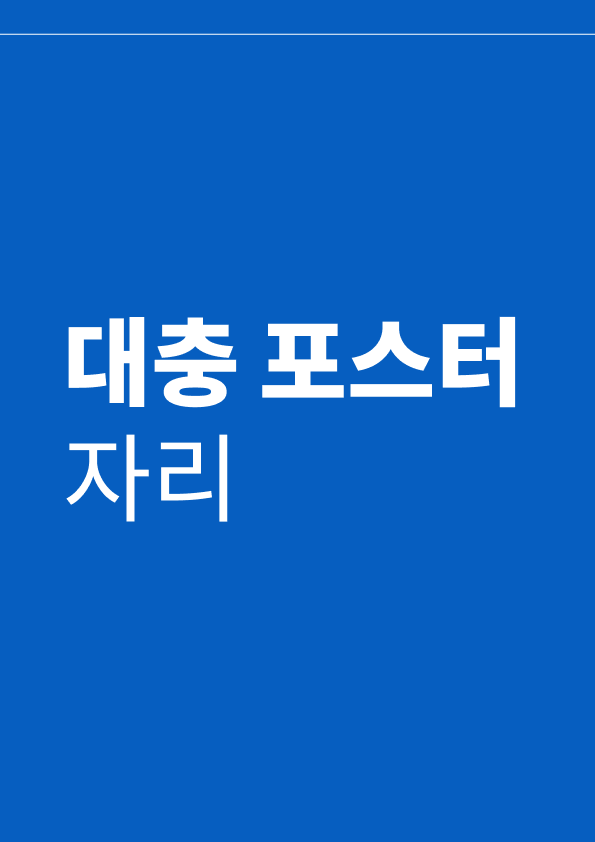
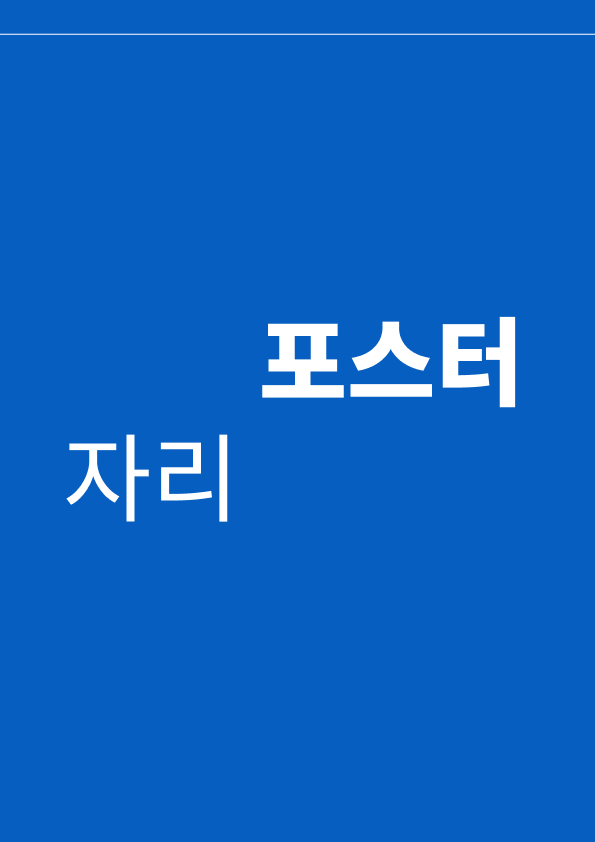
Refine home sections and schedule layout

Changed region(s): [[0.0908, 0.3705, 0.3933, 0.4941]]

diff --git a/src/scripts/home-page.ts b/src/scripts/home-page.ts
@@ -3,7 +3,7 @@ const createHomePageController = () => {
   const stages = Array.from(document.querySelectorAll<HTMLElement>(".sticky-stage"));
   const navLinks = Array.from(document.querySelectorAll<HTMLElement>(".nav a"));
 
-  if (!header || stages.length === 0) {
+  if (stages.length === 0) {
     return () => {};
   }
 
@@ -62,6 +62,10 @@ const createHomePageController = () => {
   };
 
   const updateHeader = () => {
+    if (!header) {
+      return;
+    }
+
     header.classList.toggle("is-stuck", window.scrollY > 8);
   };
 